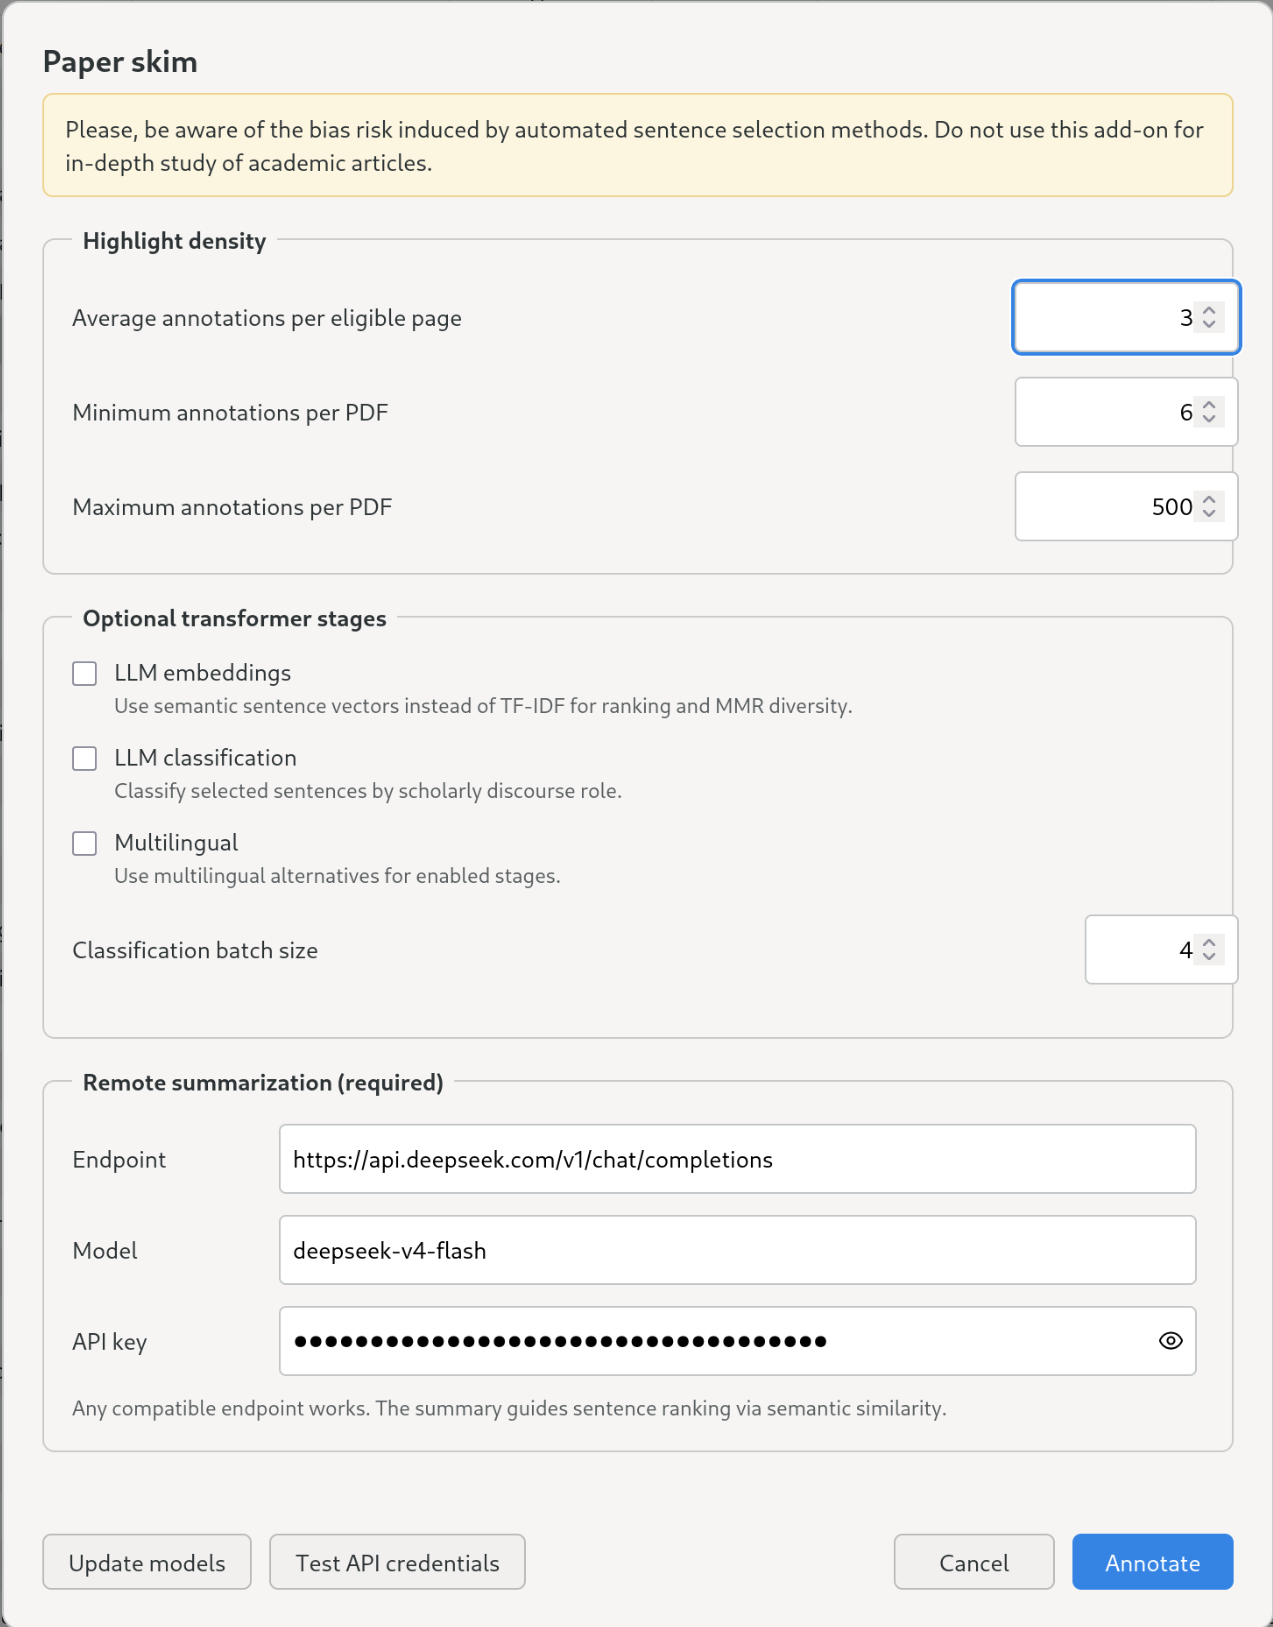
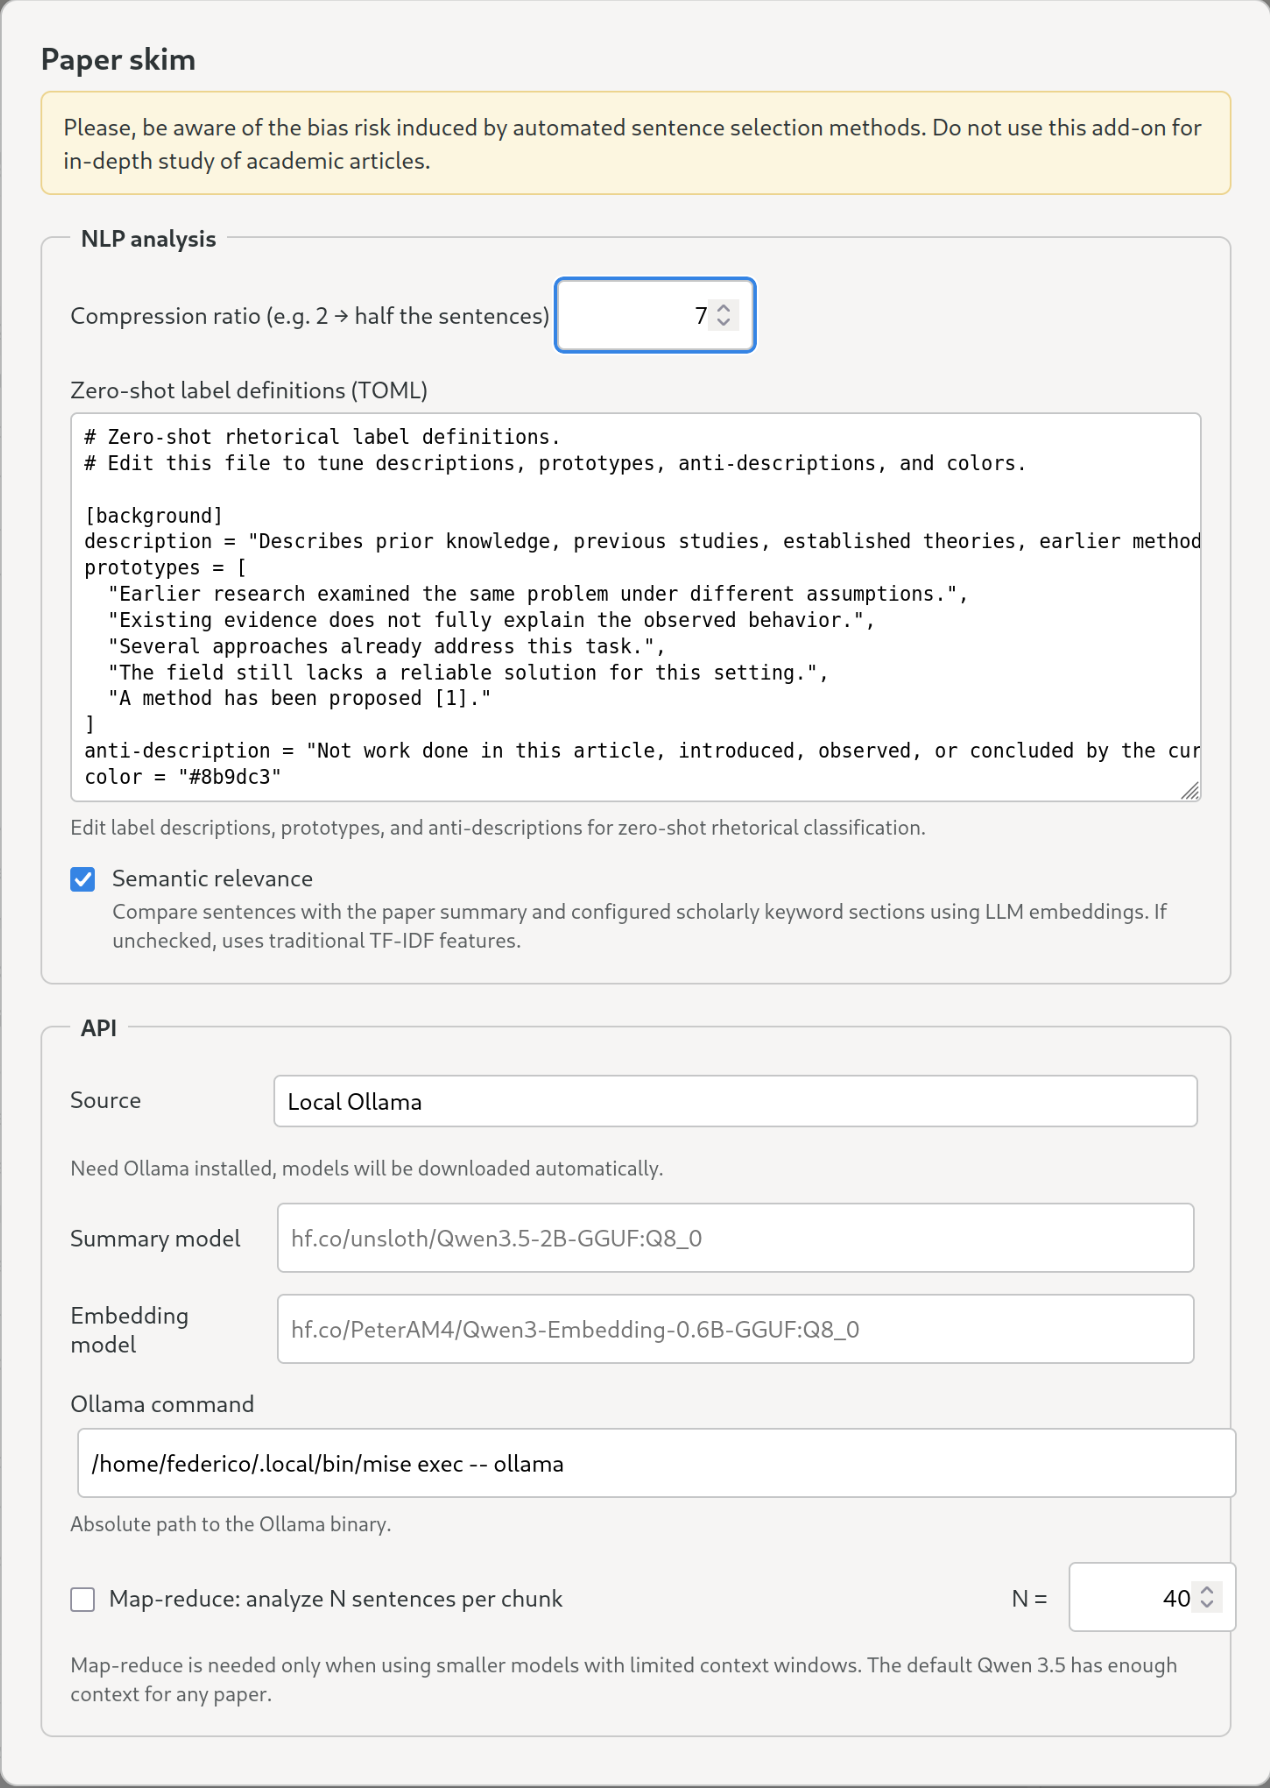
updated readme

diff --git a/README.md b/README.md
@@ -1,17 +1,17 @@
 # Zotero Skimming
 
+> [!WARNING]
+> Please, be aware of the bias risk induced by automated sentence selection methods. Do not use this add-on for in-depth study of academic articles. Consider it only for fast skimming of articles. Read more about [skimming](#references).
+
 Say bye-bye to confused AI-generated summaries, abstract sentences, and hallucinations. With this add-on, you can give a first pass to a paper by directly reading its real sentences, no AI invention, only guided AI selection.
 
 First skim, then read. Skimming is also known as _"orientation reading"_.
 
 Requires Zotero 9 and one of:
 - Ollama
-- OpenAI-compatible API key (e.g. Deepseek, Openrouter, OpenAI, etc.)
+- OpenAI-compatible API key (e.g. LiteLLM, Deepseek, Openrouter, OpenAI, etc.)
 
 <img src="assets/screenshot.png" alt="Screenshot of a paper annotated" width="400" />
-
-> [!WARNING]
-> Please, be aware of the bias risk induced by automated sentence selection methods. Do not use this add-on for in-depth study of academic articles. Consider it only for fast skimming of articles. Read more about [skimming](#references).
 
 ## Installation
 
@@ -19,8 +19,10 @@ Requires Zotero 9 and one of:
 2. In Zotero, open **Tools → Add-ons**.
 3. Open the gear menu and choose **Install Add-on From File…**.
 4. Select the downloaded `.xpi` and restart Zotero if prompted.
-5. Install ollama from https://ollama.com/download
-   Ollama is needed to efficiently run the LLM models locally.
+5. **Optional**: Install Ollama from https://ollama.com/download
+   Ollama is needed to efficiently run the LLM models locally. You can alternatively use a remote
+   API endpoint. For Google and Deepseek, consider using a local LiteLLM gateway, which offers
+   OpenAI-compatible API.
 
 The add-on targets Zotero 9.x. It does not modify source PDFs; it creates native positioned highlight annotations.
 
@@ -42,30 +44,35 @@ The baseline ranker works without downloaded models. When enabled, local semanti
 
 Choose **Remote API** to send filtered paper body text (no authors, tables, figures, abstract, or references) to the configured remote LLM. Its summary length scales with the annotation target: approximately `N × 1.5` sentences for `N` requested annotations.
 
-Choose **Local Ollama** to summarize with imported `Qwen/Qwen2.5-0.5B-Instruct-GGUF`. Ollama handles local GPU selection and execution; this add-on starts `ollama serve` when its executable is available. Remote credentials are hidden when local summarization is selected.
+Choose **Local Ollama** to summarize with imported `Qwen/Qwen3.5-2B` or with your preferred model. Ollama handles local GPU selection and execution; this add-on starts `ollama serve` when its executable is available. Remote credentials are hidden when local summarization is selected. Note that you can also use the remote endpoint to interact with Ollama. However, the Remote choice is designed to make the setup easier for non expert users.
 
-**Map-reduce long papers** and its shared context window apply to both sources. They split long input into locally token-counted chunks before reducing their summaries. Local Ollama carries each partial summary into the next map step and overlaps adjacent chunks by 5%. The window defaults to 4096 tokens and accepts values from 256 to 131072.
+**Map-reduce long papers** and its shared context window apply to both sources. They split long input into locally token-counted chunks before reducing their summaries. Local Ollama carries each partial summary into the next map step and overlaps adjacent chunks by 5%. The window defaults to 4096 tokens and accepts values from 256 to 131072. This is useful for small local models. Note that the default ollama model (Qwen3.5-2B) has a sufficiently large context window to handle almost any paper. Nevertheless, using map-reduce can still increase the completeness of the summary.
 
 ### 2. Local semantic relevance and tag classification
 
-When enabled, `Qwen/Qwen3-Embedding-0.6B-GGUF` embeds candidates through Ollama against the paper synopsis and configured scholarly keyword sections. These signals are blended with the sparse baseline before MMR selection.
+When enabled, a remote or local model (local defaults to `Qwen/Qwen3-Embedding-0.6B-GGUF`) embed candidates through Ollama against the paper synopsis and configured scholarly keyword sections.
 
-After MMR selection, each selected sentence is compared with the configured tag definitions to classify it as one of the supported categories (literature, method, goal, result, conclusion, contribution, take-away). Tags and their descriptions are user-configurable in the settings dialog; colors are assigned deterministically by tag order. If Ollama is unavailable, the baseline TF-IDF ranker remains active and highlights are untagged.
+The relevance of a sentence is computed as a weighted average of the similarity between the sentence
+and the paper summary and of a gaussian score encouraging sentence length around 20 words.
+
+After MMR selection, each selected sentence is compared with the configured label definitions to classify it as one of the supported categories (literature, method, goal, result, conclusion, contribution). Tags and their descriptions are user-configurable in the settings dialog; colors are assigned deterministically by tag order. If disabled, the baseline TF-IDF ranker remains active and highlights are untagged.
 
 ### 3. MMR selection
 
 Maximum marginal relevance selects the requested number of highlights while penalizing semantic redundancy and repeated sections:
 
 ```text
-0.65 × importance − 0.35 × redundancy − section penalty
+0.65 × relevance − 0.35 × redundancy
 ```
 
 | Term | Meaning |
 |------|---------|
 | `importance` | sentence salience from summary relevance and keyword relevance |
 | `redundancy` | cosine similarity to previously selected candidates |
-| `section penalty` | discourages a second pick from the same PDF section |
 | `coverage penalty` | penalises similarity to a summary sentence already covered by a prior pick |
+
+Coverage penalty is applied to the similarity matrix between the summary and a target sentence
+before of the importance computation.
 
 ### 4. Selected annotations
 
